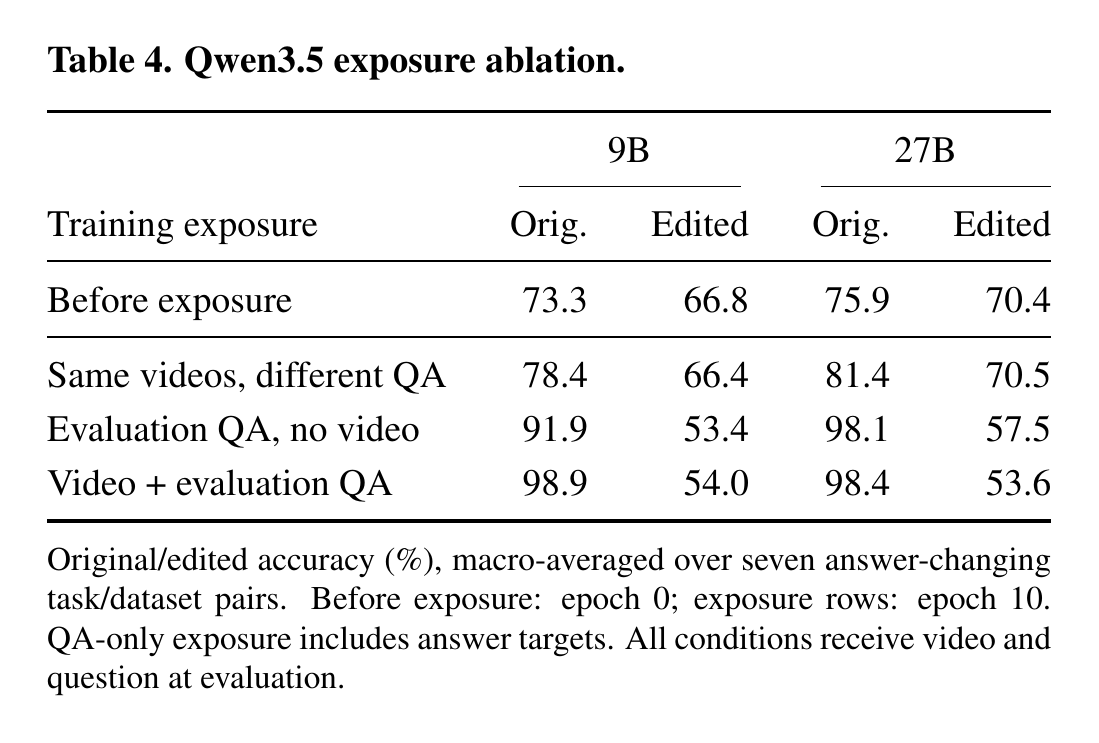
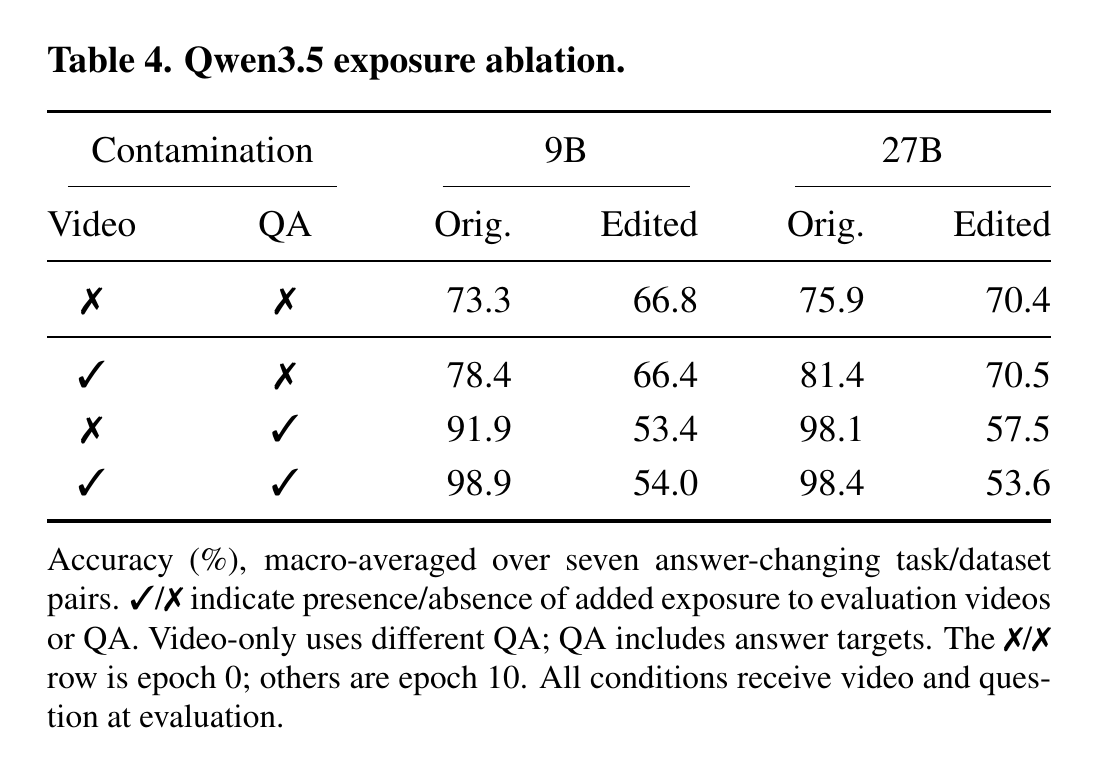
Use checkmarks for Video and QA contamination in Table 4

diff --git a/src/render_table4_exposure_ablation.py b/src/render_table4_exposure_ablation.py
@@ -87,13 +87,15 @@ def summarize(source):
 
 
 def latex_rows(rows):
-    baseline = ["Before exposure"]
+    baseline = [r"\no", r"\no"]
     for model in MODELS:
         row = next(r for r in rows if r["model"] == model)
         baseline.extend(f"{row[key]:.1f}" for key in ("original_epoch_0", "perturbed_epoch_0"))
     lines = [" & ".join(baseline) + r" \\", r"\midrule"]
-    for _, label in SETTINGS:
-        fields = [label]
+    for (_, label), contaminated in zip(
+        SETTINGS, ((True, False), (False, True), (True, True))
+    ):
+        fields = [r"\yes" if present else r"\no" for present in contaminated]
         for model in MODELS:
             row = next(r for r in rows if r["model"] == model and r["exposure"] == label)
             fields.extend(f"{row[key]:.1f}" for key in ("original_epoch_10", "perturbed_epoch_10"))
@@ -106,7 +108,9 @@ def document(summary):
     # This avoids blank page margins and preserves vector text and rules.
     template = r"""\documentclass[10pt]{article}
 \usepackage[T1]{fontenc}
-\usepackage{mathptmx,booktabs,array}
+\usepackage{mathptmx,booktabs,array,pifont}
+\newcommand{\yes}{\ding{51}}
+\newcommand{\no}{\ding{55}}
 \pagestyle{empty}
 \setlength{\parindent}{0pt}
 \setlength{\tabcolsep}{3pt}
@@ -120,20 +124,21 @@ def document(summary):
 \textbf{Table 4. Qwen3.5 exposure ablation.}
 \par\vspace{6pt}
 \fontsize{9}{11}\selectfont
-\begin{tabular*}{\linewidth}{@{\extracolsep{\fill}}lrrrr@{}}
+\begin{tabular*}{\linewidth}{@{\extracolsep{\fill}}ccrrrr@{}}
 \toprule
-& \multicolumn{2}{c}{9B} & \multicolumn{2}{c}{27B} \\
-\cmidrule(lr){2-3}\cmidrule(l){4-5}
-Training exposure & Orig. & Edited & Orig. & Edited \\
+\multicolumn{2}{c}{Contamination} & \multicolumn{2}{c}{9B} & \multicolumn{2}{c}{27B} \\
+\cmidrule(lr){1-2}\cmidrule(lr){3-4}\cmidrule(l){5-6}
+Video & QA & Orig. & Edited & Orig. & Edited \\
 \midrule
 @@QA_ROWS@@
 \bottomrule
 \end{tabular*}
 \par\vspace{5pt}
 \fontsize{8}{9.5}\selectfont
-Original/edited accuracy (\%), macro-averaged over seven
-answer-changing task/dataset pairs. Before exposure: epoch 0;
-exposure rows: epoch 10. QA-only exposure includes answer targets.
+Accuracy (\%), macro-averaged over seven answer-changing task/dataset
+pairs. \yes/\no\ indicate presence/absence of added exposure to evaluation
+videos or QA. Video-only uses different QA; QA includes answer targets.
+The \no/\no\ row is epoch 0; others are epoch 10.
 All conditions receive video and question at evaluation.
 \end{minipage}%
 }

diff --git a/src/table4_exposure_ablation.tex b/src/table4_exposure_ablation.tex
@@ -1,6 +1,8 @@
 \documentclass[10pt]{article}
 \usepackage[T1]{fontenc}
-\usepackage{mathptmx,booktabs,array}
+\usepackage{mathptmx,booktabs,array,pifont}
+\newcommand{\yes}{\ding{51}}
+\newcommand{\no}{\ding{55}}
 \pagestyle{empty}
 \setlength{\parindent}{0pt}
 \setlength{\tabcolsep}{3pt}
@@ -14,24 +16,25 @@
 \textbf{Table 4. Qwen3.5 exposure ablation.}
 \par\vspace{6pt}
 \fontsize{9}{11}\selectfont
-\begin{tabular*}{\linewidth}{@{\extracolsep{\fill}}lrrrr@{}}
+\begin{tabular*}{\linewidth}{@{\extracolsep{\fill}}ccrrrr@{}}
 \toprule
-& \multicolumn{2}{c}{9B} & \multicolumn{2}{c}{27B} \\
-\cmidrule(lr){2-3}\cmidrule(l){4-5}
-Training exposure & Orig. & Edited & Orig. & Edited \\
+\multicolumn{2}{c}{Contamination} & \multicolumn{2}{c}{9B} & \multicolumn{2}{c}{27B} \\
+\cmidrule(lr){1-2}\cmidrule(lr){3-4}\cmidrule(l){5-6}
+Video & QA & Orig. & Edited & Orig. & Edited \\
 \midrule
-Before exposure & 73.3 & 66.8 & 75.9 & 70.4 \\
+\no & \no & 73.3 & 66.8 & 75.9 & 70.4 \\
 \midrule
-Same videos, different QA & 78.4 & 66.4 & 81.4 & 70.5 \\
-Evaluation QA, no video & 91.9 & 53.4 & 98.1 & 57.5 \\
-Video + evaluation QA & 98.9 & 54.0 & 98.4 & 53.6 \\
+\yes & \no & 78.4 & 66.4 & 81.4 & 70.5 \\
+\no & \yes & 91.9 & 53.4 & 98.1 & 57.5 \\
+\yes & \yes & 98.9 & 54.0 & 98.4 & 53.6 \\
 \bottomrule
 \end{tabular*}
 \par\vspace{5pt}
 \fontsize{8}{9.5}\selectfont
-Original/edited accuracy (\%), macro-averaged over seven
-answer-changing task/dataset pairs. Before exposure: epoch 0;
-exposure rows: epoch 10. QA-only exposure includes answer targets.
+Accuracy (\%), macro-averaged over seven answer-changing task/dataset
+pairs. \yes/\no\ indicate presence/absence of added exposure to evaluation
+videos or QA. Video-only uses different QA; QA includes answer targets.
+The \no/\no\ row is epoch 0; others are epoch 10.
 All conditions receive video and question at evaluation.
 \end{minipage}%
 }
